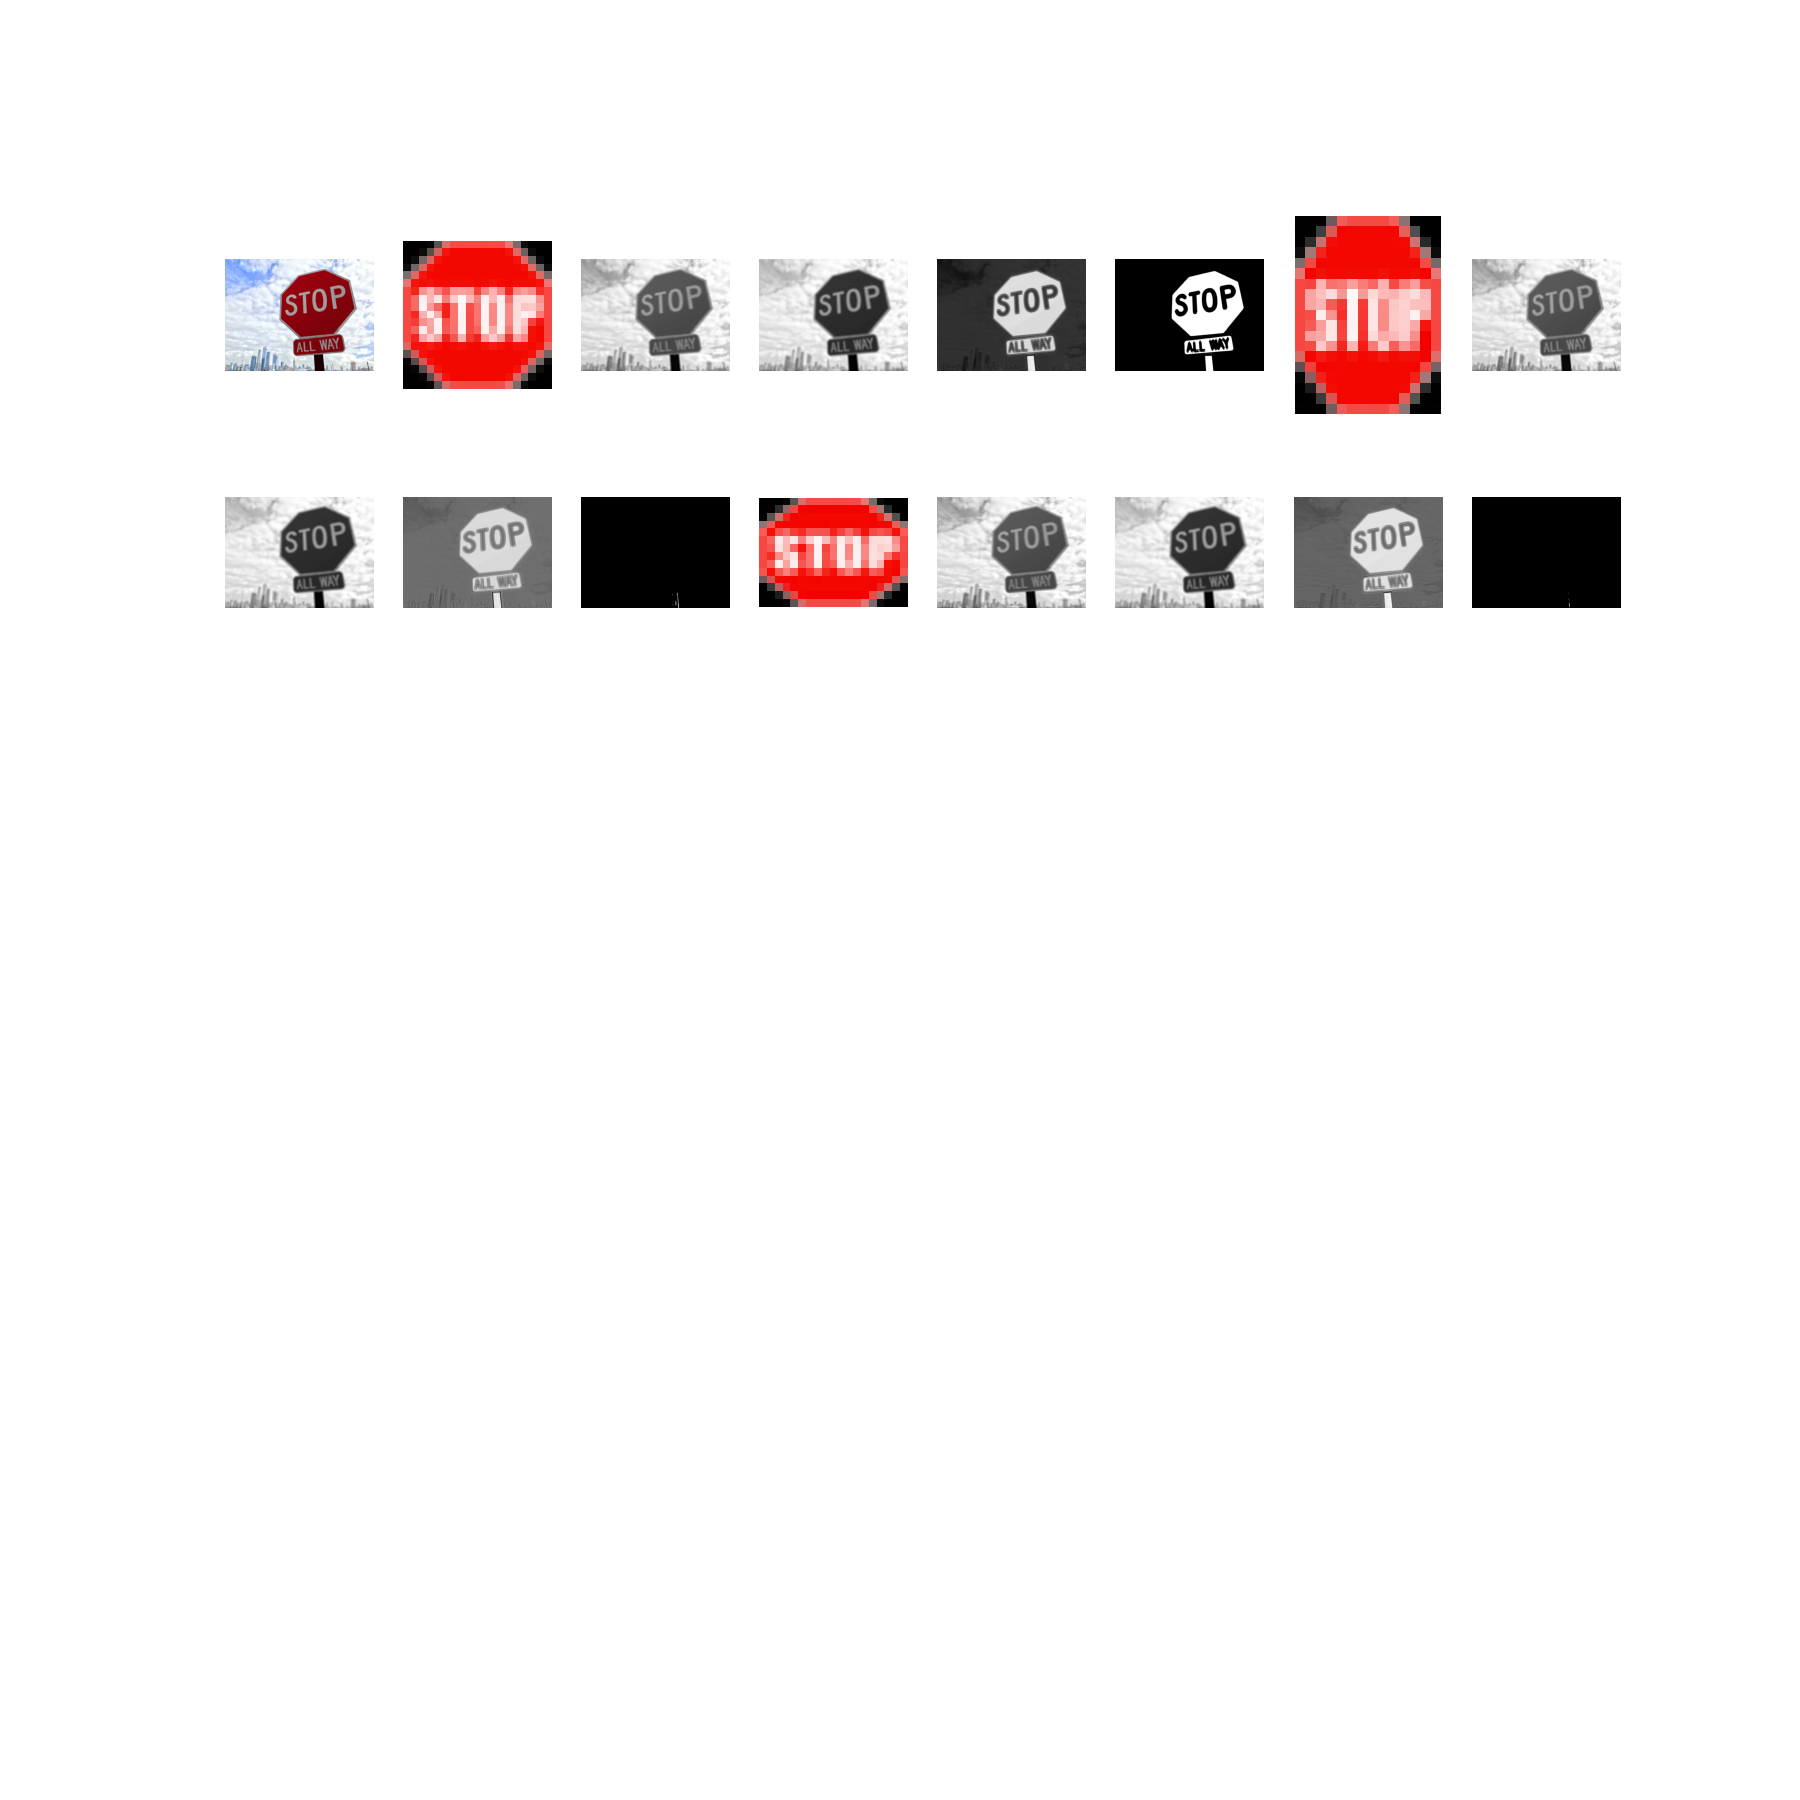
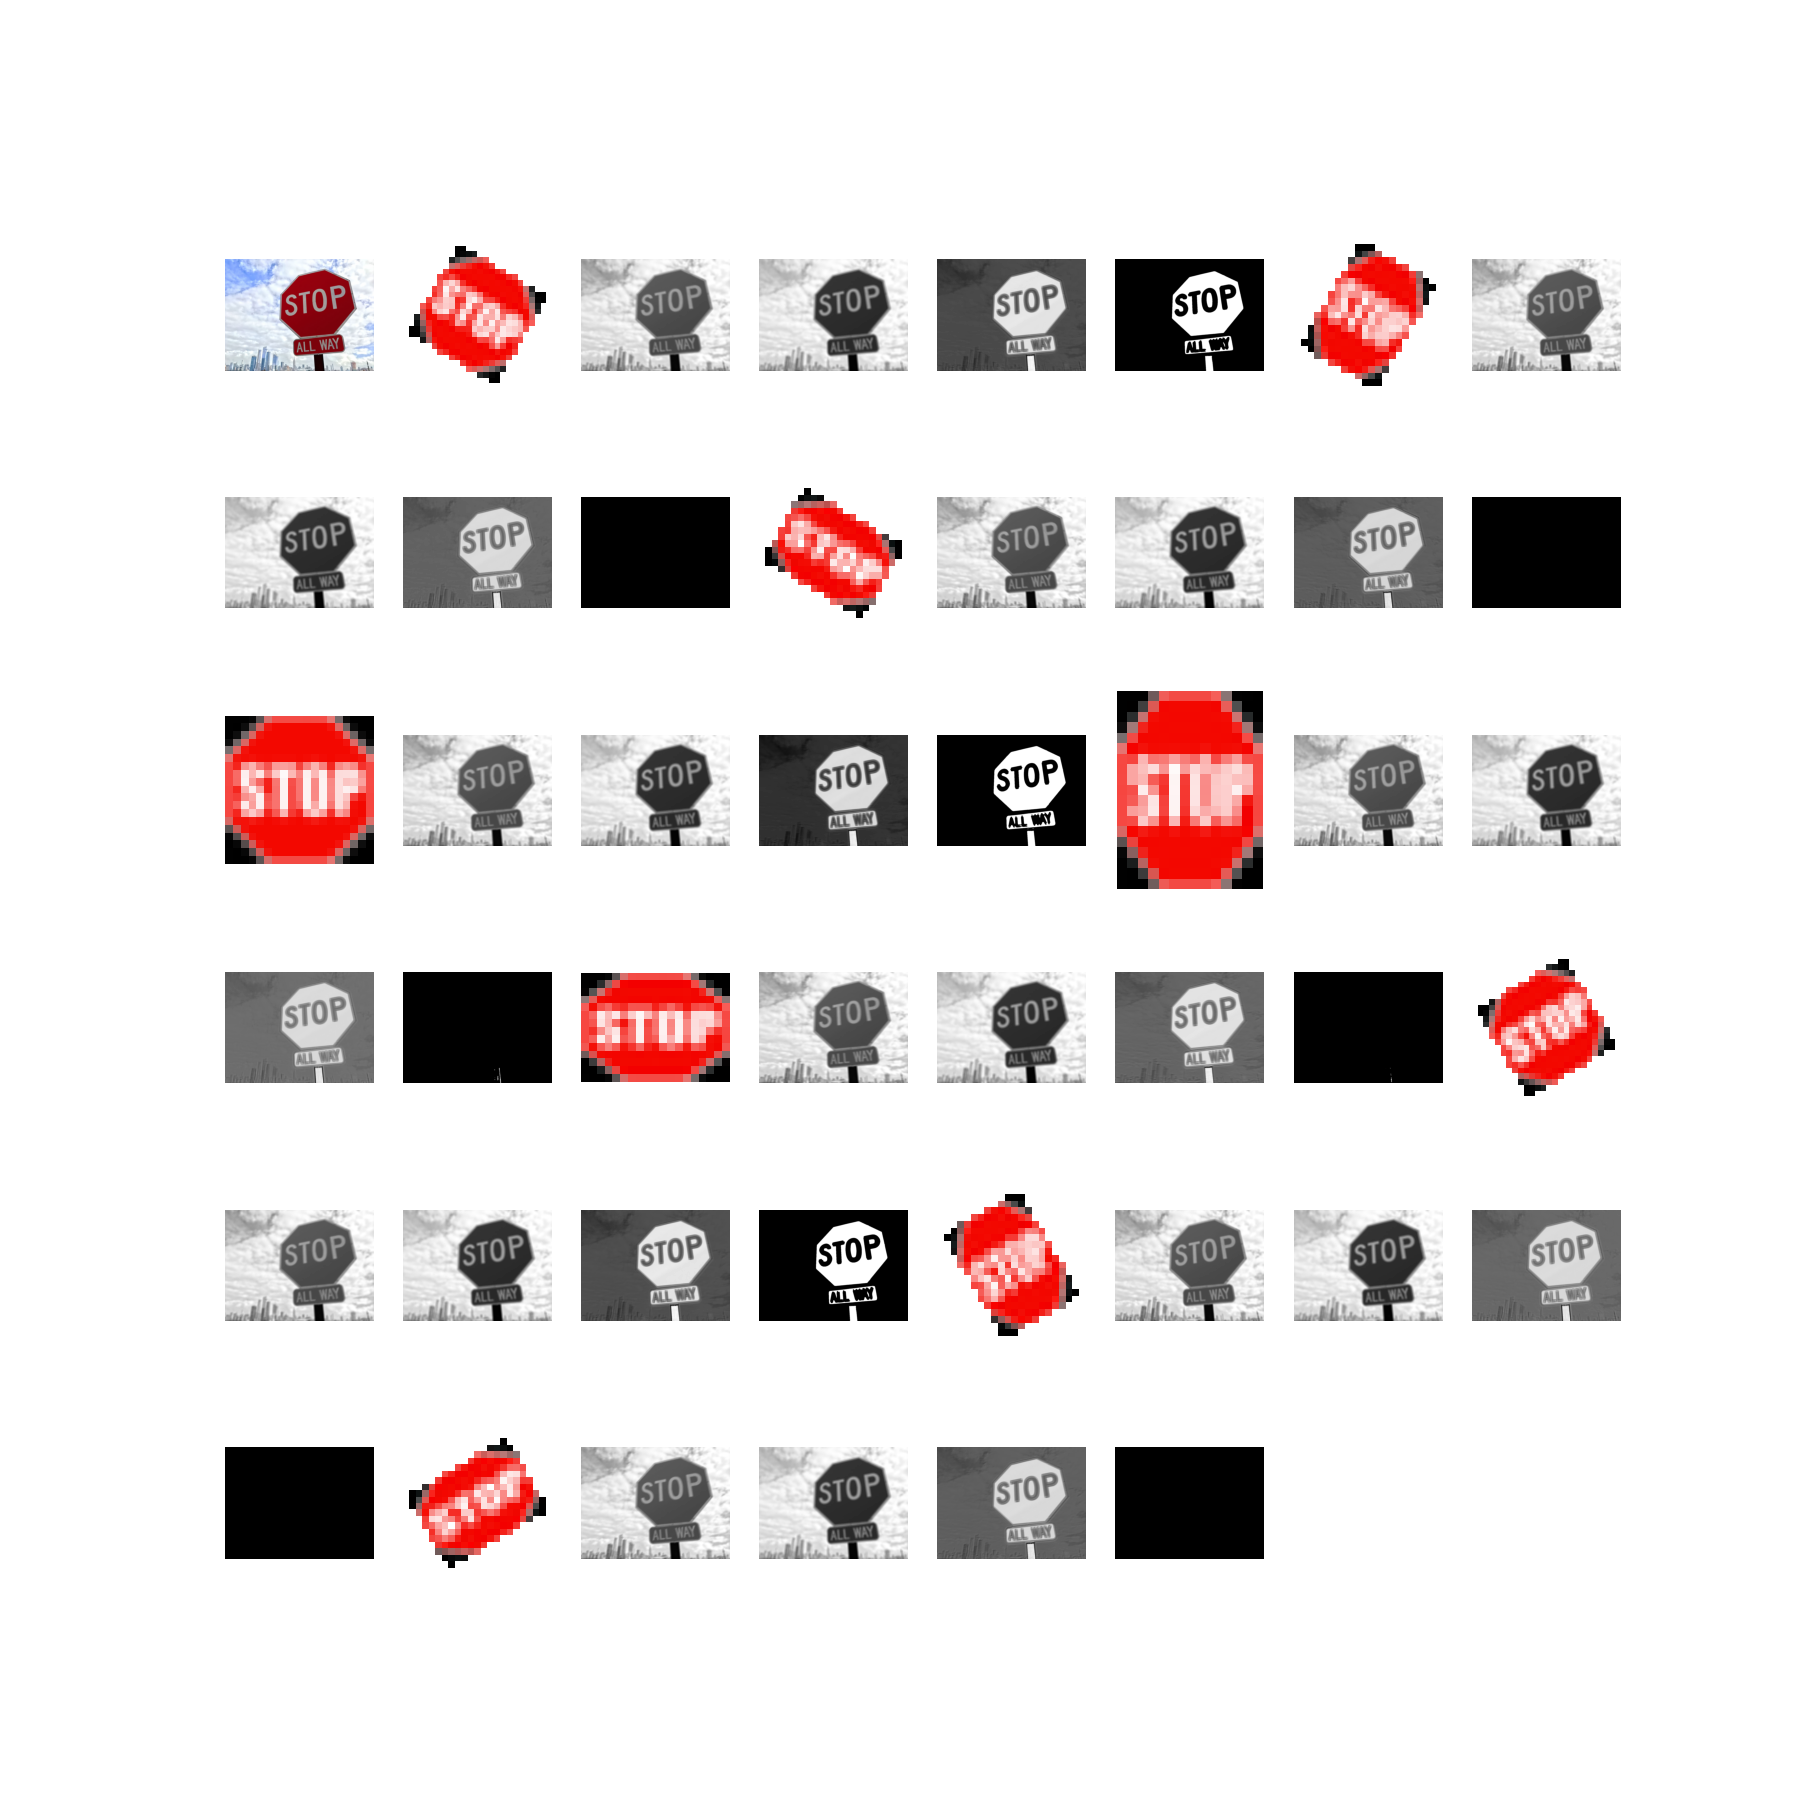
working on scoring

diff --git a/June 2nd/main.py b/June 2nd/main.py
@@ -44,10 +44,10 @@ def bw(image):
     return r*0.3 + g*0.6 + b*0.1
 
 def get_kernelvariants(k):
-    # for r in [-30, 0, 30]:
-    for s in [(1,1), (1,0.75), (0.75, 1)]:
-        # yield rotate(k, angle=r)
-        yield zoom(k,(*s,1))
+    for r in [-30, 0, 30]:
+        for s in [(1,1), (1,0.75), (0.75, 1)]:
+            # yield rotate(k, angle=r)
+            yield rotate(zoom(k,(*s,1)), angle=r)
 
             
 stopsignkernel = iio.imread(os.path.join("../images/","stop-sign-kernel2.png"))/255.0
@@ -76,6 +76,7 @@ cols = 8
 # print(l[11].dtype)
 #kernel_f = rescale(stopsignkernel, j*0.25)
 for i in range(0, len(l)):
+    maxscores = []
     for j in range(3, 8):
         plt.figure(figsize=(18, 18))
         plt.subplot(rows,cols,1)
@@ -87,40 +88,43 @@ for i in range(0, len(l)):
         plt.imshow(np.uint8(img*255))
         plt.axis("off")
         for z,transformedkernel in enumerate(get_kernelvariants(stopsignkernel)):
-            plt.subplot(rows,cols,2+z*5)
+            #plt.subplot(rows,cols,2+z*5)
             # stopsignkernel = warp(stopsignkernel, tform)
             convolved = convolve_rgb(img, transformedkernel)
-            plt.imshow(np.clip(transformedkernel,0,1))
-            plt.axis("off")
-            plt.subplot(rows,cols,3+z*5)
-            plt.imshow(convolved, cmap='gray')
-            plt.axis("off")
-            curr_max = max(np.amax(convolved), 0)
-            print(f"current max: {curr_max}")
-            plt.subplot(rows,cols,4+z*5)
+            #plt.imshow(np.clip(transformedkernel,0,1))
+            #plt.axis("off")
+            #plt.subplot(rows,cols,3+z*5)
+            #plt.imshow(convolved, cmap='gray')
+            #plt.axis("off")
+            # curr_max = max(np.amax(convolved), 0)
+            # print(f"current max: {curr_max}")
+            #plt.subplot(rows,cols,4+z*5)
             localsumkernel = np.ones_like(stopsignkernel)
             localbrightness = convolve_rgb(img,localsumkernel) # 
-            plt.imshow(localbrightness,cmap='gray')
-            plt.axis("off")
-            plt.subplot(rows,cols,5+z*5)
+            #plt.imshow(localbrightness,cmap='gray')
+            #plt.axis("off")
+            #plt.subplot(rows,cols,5+z*5)
             score = convolved / (localbrightness + 0.01)
-            plt.imshow(score,cmap='gray')
-            plt.axis("off")
-            plt.subplot(rows,cols,6+z*5)
+            #plt.imshow(score,cmap='gray')
+            #plt.axis("off")
+            #plt.subplot(rows,cols,6+z*5)
             # mask = score > np.quantile(score, 0.999)
-            mask = score > 0.6
-            print(f"max score: {np.amax(score)}")
-            plt.imshow(mask, cmap='gray')
-            plt.axis("off")
-            if 1 in mask:
-                print("There is a stop sign")
-            else:
-                print("No stop sign")
-        #plt.tight_layout()
+            mask = score > 0.63
+            maxscores.append(np.amax(score))
+            # print(f"max score: {np.amax(score)}")
+            #plt.imshow(mask, cmap='gray')
+            #plt.axis("off")
         print("Finished another plot")
-        plt.savefig(f"../outputs/{i}-{j}.png")
-        plt.close()
-plt.show()
+        #plt.savefig(f"../outputs/{i}-{j}.png")
+        #plt.close()
+    print(sorted(maxscores))
+    
+    # if 1 in mask:
+        #     print("There is a stop sign")
+        # else:
+        #     print("No stop sign")
+        #plt.tight_layout()
+# plt.show()
 exit()
 for i in range(0, len(l)):
     curr_max = 0
